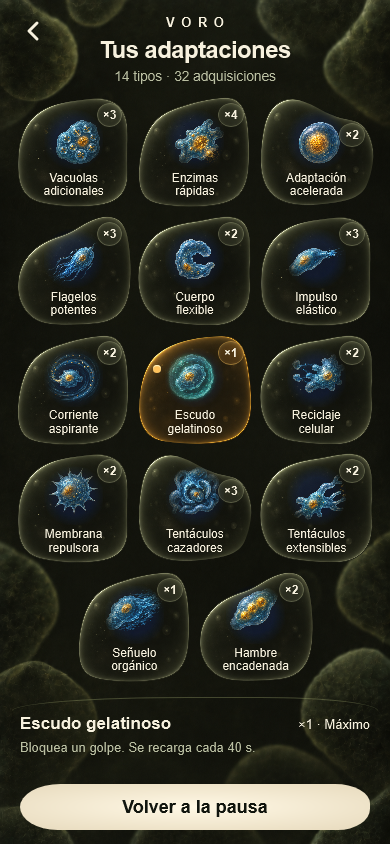
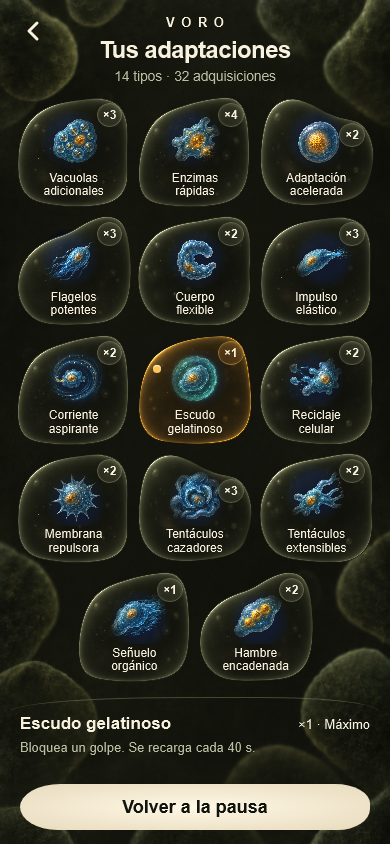
Optically center owned adaptation illustrations

diff --git a/design/owned-adaptations-ui-2026-09-29/implementation/review.html b/design/owned-adaptations-ui-2026-09-29/implementation/review.html
@@ -1,6 +1,6 @@
 <!doctype html><html lang="es"><meta charset="utf-8"><meta name="viewport" content="width=device-width,initial-scale=1"><title>VORO · Tus adaptaciones D3</title>
 <style>body{margin:0;background:#11140e;color:#f7f1de;font:16px/1.5 system-ui}main{max-width:1080px;margin:auto;padding:30px 20px}h1{margin:0;font-size:28px}p{color:#bbc0a5}a{color:#ffce79}.pair{display:grid;grid-template-columns:1fr 1fr;gap:24px}figure{margin:0}figcaption{margin:12px 0}img{display:block;max-width:100%;max-height:850px;object-fit:contain;object-position:top;margin:auto}figure.wide{margin-top:30px}.wide img{max-height:none}@media(max-width:600px){main{padding:16px 10px}.pair{gap:10px}figcaption{font-size:13px}}</style>
-<main><h1>Tus adaptaciones · D3</h1><p>Diseño orgánico corregido: imágenes originales de las adaptaciones, fondo completo y cápsulas de distintas formas. Capturas de una partida de prueba con 14 tipos y 32 adquisiciones. Solo aparecen las que posees en tu partida.</p><p><a href="/?ui=final">Abrir el juego</a> · Pausa → Tus adaptaciones</p>
-<div class="pair"><figure><figcaption>Referencia de diseño · iconos de la propuesta descartados</figcaption><a href="../D3-organica.png"><img src="../D3-organica.png" alt="Referencia D3 aprobada"></a></figure><figure><figcaption>Implementación real · compilación móvil en WebKit</figcaption><a href="webkit-iphone-build.png"><img src="webkit-iphone-build.png?v=original-art-organic-frames" alt="Captura real de la colección implementada"></a></figure></div>
-<figure class="wide"><figcaption>Implementación real · escritorio</figcaption><a href="chrome-pc-build.png"><img src="chrome-pc-build.png?v=original-art-organic-frames" alt="Colección de adaptaciones en PC"></a></figure>
+<main><h1>Tus adaptaciones · D3</h1><p>Diseño orgánico corregido: imágenes originales de las adaptaciones, fondo completo y cápsulas de distintas formas. Ilustraciones centradas individualmente. Capturas de una partida de prueba con 14 tipos y 32 adquisiciones. Solo aparecen las que posees en tu partida.</p><p><a href="/?ui=final">Abrir el juego</a> · Pausa → Tus adaptaciones</p>
+<div class="pair"><figure><figcaption>Referencia de diseño · iconos de la propuesta descartados</figcaption><a href="../D3-organica.png"><img src="../D3-organica.png" alt="Referencia D3 aprobada"></a></figure><figure><figcaption>Implementación real · compilación móvil en WebKit</figcaption><a href="webkit-iphone-build.png"><img src="webkit-iphone-build.png?v=optically-centered" alt="Captura real de la colección implementada"></a></figure></div>
+<figure class="wide"><figcaption>Implementación real · escritorio</figcaption><a href="chrome-pc-build.png"><img src="chrome-pc-build.png?v=optically-centered" alt="Colección de adaptaciones en PC"></a></figure>
 <p>Pruebas de interfaz en navegador; esta pantalla aún no se ha enviado a TestFlight.</p></main></html>

diff --git a/app/owned-adaptations.tsx b/app/owned-adaptations.tsx
@@ -8,6 +8,13 @@ import './owned-adaptations.css';
 
 // Reuse the same 5 × 3 atlas and artIndex as the adaptation choice screen.
 const artBounds = (index: number) => [(index % 5) * 1619 / 5, Math.floor(index / 5) * 324, 1619 / 5, 324];
+// Optical offsets in atlas pixels: center the visible painted subject, not its
+// square source cell. Keep image and edge fade together; no scaling or new art.
+const ART_OFFSETS = [
+  [-11.2,-18.2],[-15.9,-6.4],[-18,-10.7],[-1.6,-3.8],[-22.4,-4.4],
+  [9.2,2.3],[39.1,3.1],[14.8,1.4],[14.9,13.8],[18.5,8.3],
+  [-15.7,18.9],[14,37.9],[28.7,31],[6,26.8],[21.9,37.4],
+];
 
 // Painted silhouettes, clipped at their actual contours so the sheet background
 // never forms a rectangle around the approved organic frames.
@@ -63,7 +70,9 @@ export function OwnedAdaptations({ mutations, onClose, returnFocus }: {
                   <rect x={artBounds(item.artIndex)[0]} y={artBounds(item.artIndex)[1]} width={1619 / 5} height="324" fill={`url(#owned-fade-${item.id})`} />
                 </mask>
               </defs>
-              <image href="/upgrades/biological-adaptations.png" width="1619" height="972" mask={`url(#owned-art-${item.id})`} />
+              <g transform={`translate(${ART_OFFSETS[item.artIndex].join(' ')})`}>
+                <image href="/upgrades/biological-adaptations.png" width="1619" height="972" mask={`url(#owned-art-${item.id})`} />
+              </g>
             </svg>
             <span className="owned-name">{t(item.name).split(' ').map((word: string,i: number) => <span key={i}>{word}{' '}</span>)}</span>
           </button>)}

diff --git a/design/owned-adaptations-ui-2026-09-29/implementation/README.md b/design/owned-adaptations-ui-2026-09-29/implementation/README.md
@@ -26,3 +26,7 @@ Se verificó también la correspondencia de los 14 iconos con el atlas original 
 Capturas finales actualizadas tras las correcciones de ilustraciones, fondo y marcos: `*-build.png`. `review.html` compara referencia y capturas reales. Las capturas usan una partida aislada de prueba, no modifican la del usuario.
 
 Esto acredita los bundles web móvil/PC y WebKit de escritorio, **no una ejecución física en iPhone/iPad**. TestFlight sigue en **0.9 (2)**; no se ha subido una nueva build ni empaquetado otro ejecutable Windows por este encargo.
+
+## Centrado óptico — 29-09-2026
+
+Revisadas las 14 ilustraciones dentro de sus celdas originales. Se midió el centro del contenido visible, ponderado por luminancia sobre el fondo y el desvanecimiento radial existente. `ART_OFFSETS` corrige cada celda mediante traslación SVG del dibujo junto a su máscara. Los desplazamientos máximos de la fuente son 39,1 px horizontal y 37,9 px vertical (aproximadamente 8 px en el icono móvil). No cambia el tamaño, el atlas, los marcos, los contadores ni el balance. Comprobadas visualmente las capturas actualizadas de móvil/PC y los 48 escenarios existentes sobre las dos compilaciones.
